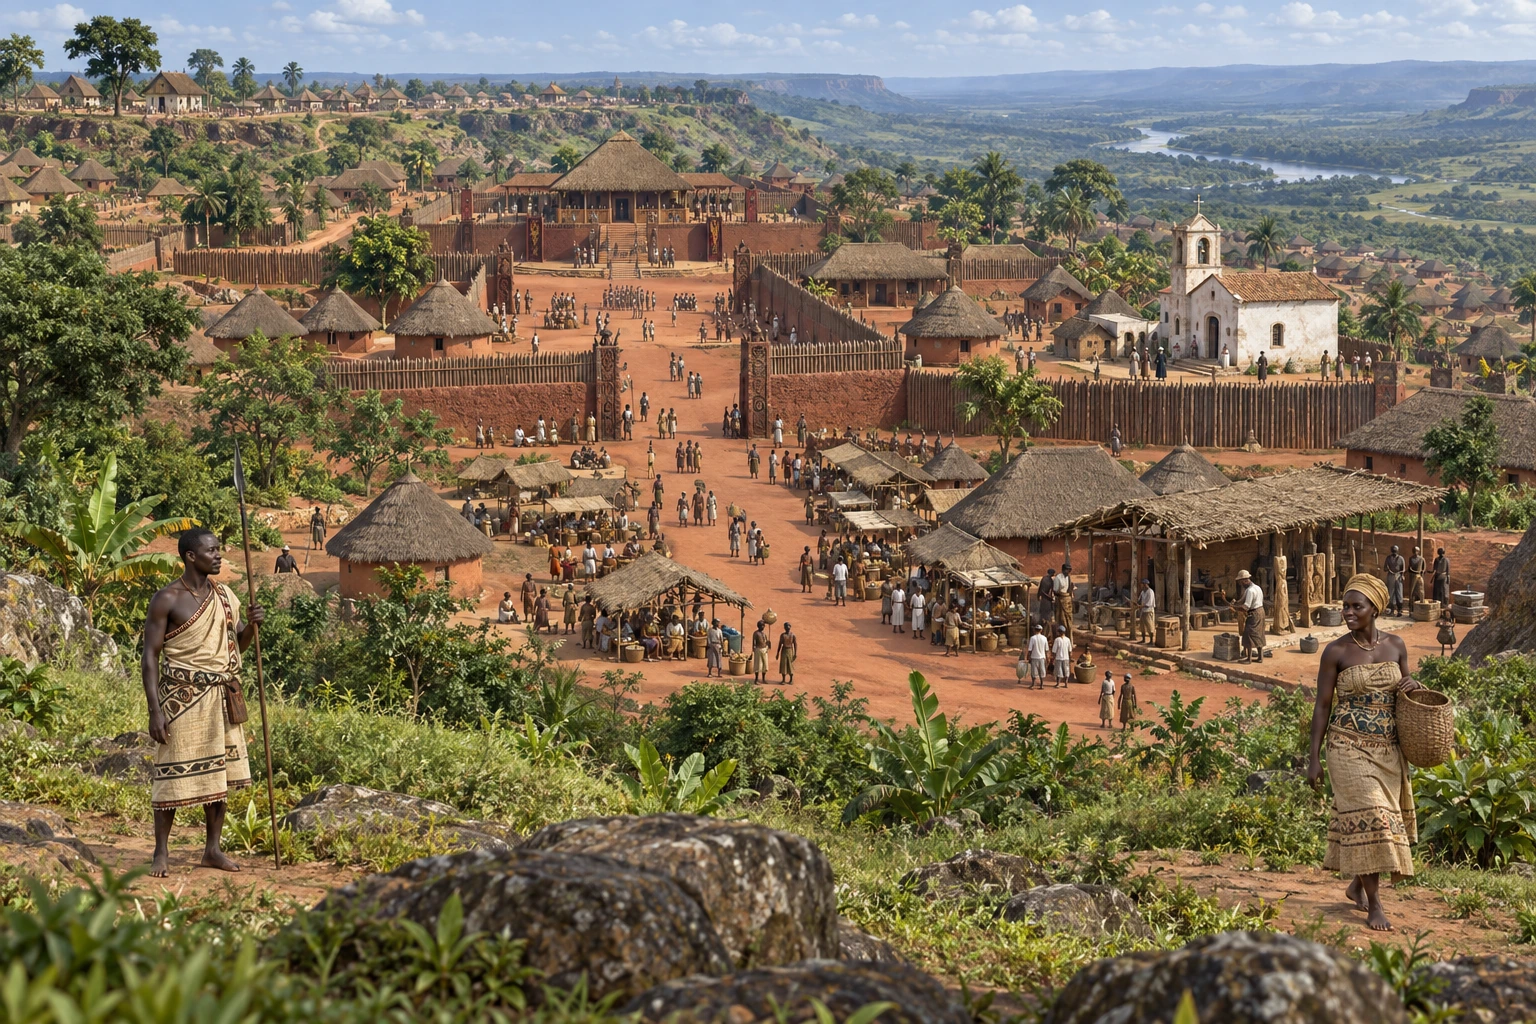
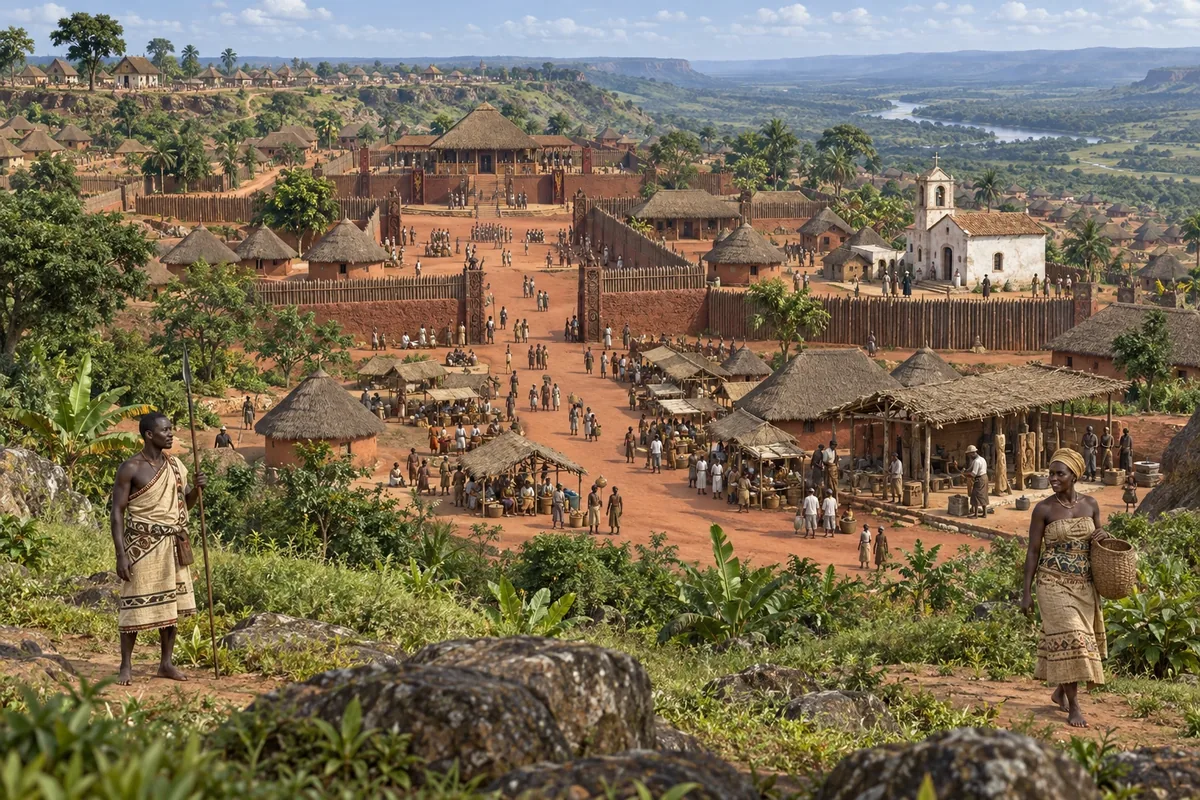
feat(world-voyage): 음반자콩고 그림을 끝으로 도시 228곳 그림을 모두 채움

diff --git a/learning/inquiry/age-of-exploration/CITY-ART-다시그리기.md b/learning/inquiry/age-of-exploration/CITY-ART-다시그리기.md
@@ -4,9 +4,10 @@
 
 눈대중으로 "자연스러운가"만 보았다(수치로 재지 않음).
 
-## 남은 것 — 음반자콩고 한 장 (2026-09-20)
+## 다 그렸다 — 228/228 (2026-09-20)
 
-도시 228곳 가운데 **227곳에 그림이 들어갔다.** 음반자콩고만 아직 없고, 요청문은 옆 파일 [`CITY-ART-다시그릴-요청문.md`](CITY-ART-다시그릴-요청문.md) 에 있다.
+도시 228곳에 그림이 모두 들어갔다. 통째로 다시 그릴 것은 남아 있지 않다.
+다시 그릴 일이 생기면 요청문은 [`CITY-ART-PROMPTS.md`](CITY-ART-PROMPTS.md) 에서 그 도시 항목을 찾아 쓴다.
 
 ## 끝난 것 — 통째로 다시 그리기
 
